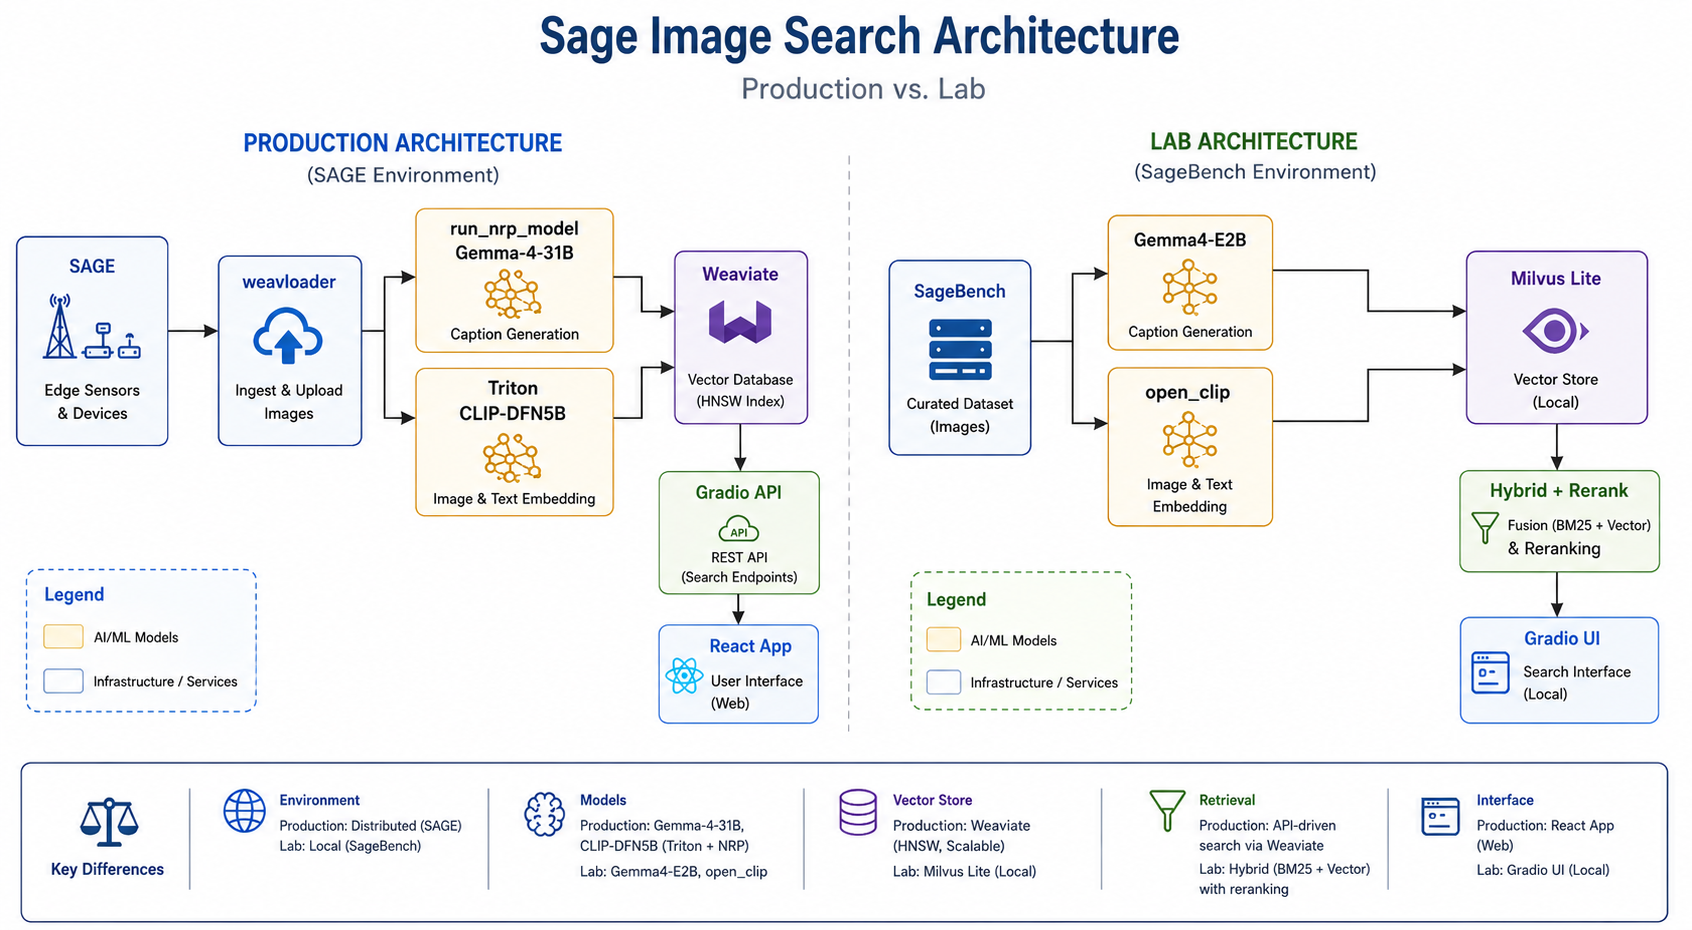
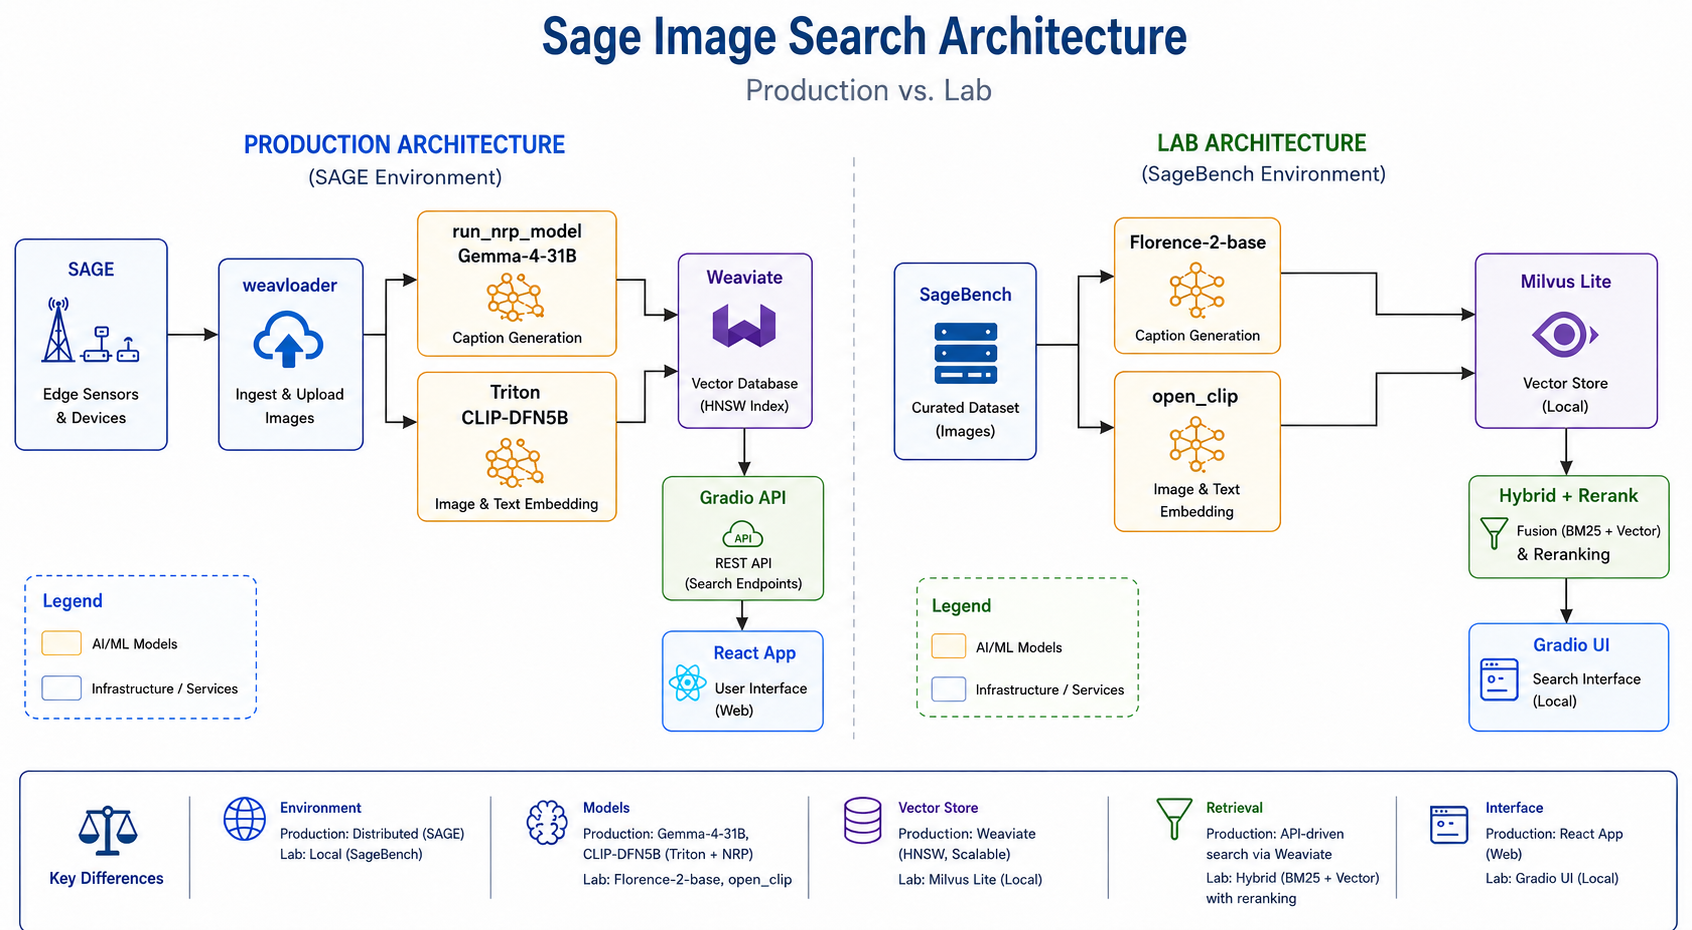
changed lab model to florence2base

diff --git a/docs/learning.md b/docs/learning.md
@@ -8,7 +8,7 @@ After completing the lab, you will be able to:
 
 - Explain the Sage Image Search pipeline: captioning, embedding, indexing, hybrid search, reranking, and search UI
 - Build fused CLIP embeddings (image + caption) and index them with Milvus Lite BM25 hybrid search
-- Run a simplified version of the stack locally using Milvus Lite, open_clip, Gemma 4 E2B, and a Gradio search UI
+- Run a simplified version of the stack locally using Milvus Lite, open_clip, [Florence-2-base](https://huggingface.co/microsoft/Florence-2-base), and a Gradio search UI
 - Map each lab component to the production system (Weaviate, Triton, NRP `run_nrp_model()`, weavloader, Gradio API, React portal)
 - Evaluate retrieval quality with MRR and Success@K on SageBench queries
 
@@ -32,9 +32,8 @@ You can complete the lab without watching either video.
 Before starting the lab:
 
 - **Python** and basic machine learning familiarity
-- **1 GPU** (recommended; CPU fallback uses SageBench `summary` captions instead of Gemma)
-- A **[Hugging Face](https://huggingface.co/)** account
-- An **`HF_TOKEN`** — create a `read` token at [User access tokens](https://huggingface.co/docs/hub/en/security-tokens) and accept the [Gemma 4 license](https://huggingface.co/google/gemma-4-E2B) on the model page
+- **1 GPU** (recommended; CPU works — Florence-2-base is 0.23B params). Set `USE_SUMMARY=True` in the notebook to skip captioning and use SageBench summaries.
+- Optional **[Hugging Face](https://huggingface.co/)** account and **`HF_TOKEN`** for faster Hub downloads ([User access tokens](https://huggingface.co/docs/hub/en/security-tokens)) — not required (Florence-2-base and SageBench are public)
 
 No SAGE credentials are required (the lab uses public SageBench data).
 
@@ -44,11 +43,11 @@ The main lab is [sage_image_search_lab.ipynb](notebooks/sage_image_search_lab.ip
 
 | Section | What you do |
 |---------|-------------|
-| **Setup** | Install requirements; sign in at [Hugging Face](https://huggingface.co/); set `HF_TOKEN` ([access tokens](https://huggingface.co/docs/hub/en/security-tokens)); configure `PERSIST_DIR` in `User_Persistent_Storage` |
+| **Setup** | Install requirements; configure `PERSIST_DIR` in `User_Persistent_Storage` |
 | **Load SageBench** | 50-image subset (`SEED=42`, `SAMPLE_SIZE=50`) from [`sagecontinuum/SageBench`](https://huggingface.co/datasets/sagecontinuum/SageBench) |
 | **Architecture overview** | Compare production vs lab components (with diagram) |
 | **Step 1: Embeddings** | open_clip helpers + `get_clip_embeddings()` fused with production `clip_alpha` |
-| **Step 2: Captions** | Gemma 4 E2B-it captioning (or `summary` fallback on CPU) → fused vectors |
+| **Step 2: Captions** | [Florence-2-base](https://huggingface.co/microsoft/Florence-2-base) captioning (`<MORE_DETAILED_CAPTION>`) or `USE_SUMMARY=True` → fused vectors |
 | **Step 3: Index** | Milvus Lite collection `sage_lab` (`sage_lab.db`) with dense vectors + BM25 on `search_text` |
 | **Step 4: Vector search** | Semantic ANN on fused CLIP vectors |
 | **Step 5: Keyword search** | BM25 on captions + metadata |
@@ -68,8 +67,7 @@ Steps 4 and 5 teach vector and keyword search separately; **Steps 6 onward** alw
 ### Instructor setup (one-time)
 
 
-1. Tell students to sign up at [Hugging Face](https://huggingface.co/), create **`HF_TOKEN`** ([User access tokens](https://huggingface.co/docs/hub/en/security-tokens); `read` role is enough), accept the [Gemma 4 license](https://huggingface.co/google/gemma-4-E2B), and set the token in the notebook or environment
-2. Point students to the [Image Search Lab NDP workspace](https://nationaldataplatform.org/workspaces/7c2a994e-86b5-4119-9dd7-974dc9feb257)
+1. Point students to the [Image Search Lab NDP workspace](https://nationaldataplatform.org/workspaces/7c2a994e-86b5-4119-9dd7-974dc9feb257) and [learning.md](learning.md)
 
 ### Student setup
 
@@ -83,15 +81,14 @@ Steps 4 and 5 teach vector and keyword search separately; **Steps 6 onward** alw
    | **GPUs** | **1** | **1** | 0 |
    | **Cores** | 4 | 4 | 2 |
    | **RAM** | 32 GB | 32 GB | 16 GB |
-   | **GPU Type** | Any (≥16 GB VRAM recommended) | Tesla T4 | — |
+   | **GPU Type** | Any | Any (≥8 GB VRAM) | — |
    | **Image** | Minimal NDP Starter JupyterLab | Minimal NDP Starter JupyterLab | Minimal NDP Starter JupyterLab |
    | **Timeout (sec)** | 1200  | 1200 | 1200 |
    | **Architecture** | amd64 | amd64 | amd64 |
 
-   **Why:** Gemma 4 E2B captioning needs ~5–8 GB model memory and a GPU. Use **sequential model loading** (caption → embed → rerank). Reserve **≥5 GB** in `User_Persistent_Storage` for HF cache, `sage_lab.db`, and `gradio_images/` thumbnails.
+   **Why:** [Florence-2-base](https://huggingface.co/microsoft/Florence-2-base) is only 0.23B params (~1 GB in float16) and runs on most classroom GPUs. Use **sequential model loading** (caption → embed → rerank). Reserve **≥3 GB** in `User_Persistent_Storage` for HF cache and `sage_lab.db`.
 
-   **Expected runtime:** ~10–15 min install + ~30–40 min notebook with GPU (includes Gemma captioning and Gradio UI).
-   >NOTE: If Tesla T4 is unavailable: RTX 3090 / RTX A5000 / Quadro RTX 6000 can be used as a fallback.
+   **Expected runtime:** ~10–15 min install + ~25–35 min notebook with GPU (includes Florence captioning and Gradio UI).
 
 3. **Launch server** — Start Server, wait for JupyterLab
 4. **Set storage** — open `User_Persistent_Storage`. Files outside persistent storage are **lost** when the server stops.
@@ -105,7 +102,7 @@ Steps 4 and 5 teach vector and keyword search separately; **Steps 6 onward** alw
 
 **Notes:**
 
-- **[Hugging Face](https://huggingface.co/) account** and **`HF_TOKEN`** required for Gemma 4 E2B-it (gated model). Create a `read` token at [User access tokens](https://huggingface.co/docs/hub/en/security-tokens).
+- Optional **`HF_TOKEN`** for faster Hub downloads — not required for this lab
 - No SAGE credentials required (public SageBench data)
 - Fallback install: `%pip install -r requirements.txt` in the notebook
 
@@ -115,8 +112,8 @@ Steps 4 and 5 teach vector and keyword search separately; **Steps 6 onward** alw
 |-------|-------------|
 | `AllocTimestamp` / `Method not implemented` during Milvus insert | Harmless Milvus Lite quirk if you still see `Indexed N fused vectors + BM25 text → …/sage_lab.db`. Re-install from `requirements.txt` to reduce log noise. |
 | Gradio gallery shows broken images with path text | Restart kernel, re-run **Load SageBench** through **Step 8**. Step 8 caches JPEG thumbnails under `gradio_images/` in persistent storage. Open the printed Gradio URL in a new tab if `inline=True` does not render images. |
-| `HF_TOKEN` / gated model download errors | Sign up at [Hugging Face](https://huggingface.co/), accept the [Gemma 4 license](https://huggingface.co/google/gemma-4-E2B), then create a `read` token at [User access tokens](https://huggingface.co/docs/hub/en/security-tokens). |
-| No GPU / Gemma OOM | CPU mode uses SageBench `summary` captions instead of Gemma; relaunch with 1 GPU for the full lab. |
+| `HF_TOKEN` / model download errors | Optional for this lab. Set `HF_TOKEN` if Hub rate-limits you ([User access tokens](https://huggingface.co/docs/hub/en/security-tokens)). |
+| Slow captioning / no GPU | Set `USE_SUMMARY=True` in Step 2 to skip Florence and use SageBench `summary` captions. |
 | Files missing after restart | Confirm you are working inside `User_Persistent_Storage`. |
 
 ## Full vs lab mapping
@@ -124,7 +121,7 @@ Steps 4 and 5 teach vector and keyword search separately; **Steps 6 onward** alw
 | Production | Lab equivalent | Why simplified |
 |------------|----------------|----------------|
 | Weaviate `HybridSearchExample` | Milvus Lite `sage_lab` (`sage_lab.db`) | Embedded DB, no Kubernetes |
-| NRP `gemma` → [gemma-4-31B-it-qat-w4a16-ct](https://huggingface.co/google/gemma-4-31B-it-qat-w4a16-ct) via `run_nrp_model()` | [gemma-4-E2B-it](https://huggingface.co/google/gemma-4-E2B) via `transformers` + optional `bitsandbytes` | Same Gemma 4 family; edge-sized model for student GPU |
+| NRP `gemma` → [gemma-4-31B-it-qat-w4a16-ct](https://huggingface.co/google/gemma-4-31B-it-qat-w4a16-ct) via `run_nrp_model()` | [Florence-2-base](https://huggingface.co/microsoft/Florence-2-base) via `transformers` | Smaller VLM (0.23B) for classroom GPUs; demonstrates the same caption → embed pipeline |
 | Triton `clip` (`DFN5B-CLIP-ViT-H-14-378`) + fused image+caption vector (`clip_alpha=0.7`) | `open_clip` ViT-B-32 + same fusion | Smaller CLIP for classroom GPUs; same `fuse_embeddings` math |
 | Weaviate hybrid (`alpha=0.4`) | Milvus `hybrid_search` + `WeightedRanker(0.4, 0.6)` | Same dense+BM25 fusion via Milvus built-in ranker |
 | `reranker-transformers` | `ms-marco-MiniLM-L-6-v2` CrossEncoder | Same reranker family |
@@ -136,9 +133,9 @@ Steps 4 and 5 teach vector and keyword search separately; **Steps 6 onward** alw
 
 | | Production | Lab |
 |---|------------|-----|
-| **Model** | [gemma-4-31B-it-qat-w4a16-ct](https://huggingface.co/google/gemma-4-31B-it-qat-w4a16-ct) | [gemma-4-E2B-it](https://huggingface.co/google/gemma-4-E2B) |
-| **API** | `run_nrp_model()` in [weavloader/inference/model.py](../weavloader/inference/model.py) | `transformers` `AutoModelForMultimodalLM` |
-| **Prompt** | [model_config.py](../weavloader/inference/model_config.py) `caption_model_prompt` | Same prompt text |
+| **Model** | [gemma-4-31B-it-qat-w4a16-ct](https://huggingface.co/google/gemma-4-31B-it-qat-w4a16-ct) | [Florence-2-base](https://huggingface.co/microsoft/Florence-2-base) |
+| **API** | `run_nrp_model()` in [weavloader/inference/model.py](../weavloader/inference/model.py) | `transformers` `AutoModelForCausalLM` + `trust_remote_code=True` |
+| **Prompt** | [model_config.py](../weavloader/inference/model_config.py) `caption_model_prompt` | Built-in task token `<MORE_DETAILED_CAPTION>` |
 
 ### Key ideas (from the lab conclusion)
 
@@ -152,7 +149,7 @@ Steps 4 and 5 teach vector and keyword search separately; **Steps 6 onward** alw
 | Level | Audience | Activities | Difficulty | Next steps |
 |-------|----------|------------|------------|------------|
 | **1 — Explorer** | New to the system | Run the notebook; try queries in the Gradio UI; compare with [production portal](https://portal.sagecontinuum.org/labs/image-search) | Easy | [overview.md](overview.md), [glossary.md](glossary.md) |
-| **2 — Tinkerer** | Comfortable with Python | Compare Gemma vs `summary` captions; tune `QUERY_ALPHA`; plot MRR@K | Medium | [configuration.md](configuration.md), [model_config.py](../weavloader/inference/model_config.py) |
+| **2 — Tinkerer** | Comfortable with Python | Compare Florence vs `summary` captions; try `<DETAILED_CAPTION>`; tune `QUERY_ALPHA`; plot MRR@K | Medium | [configuration.md](configuration.md), [model_config.py](../weavloader/inference/model_config.py) |
 | **3 — Builder** | Ready for real stack | Deploy dev UI on NRP; run Sagebench `make run-local`; try NRP API | Hard | [getting-started.md](getting-started.md), [benchmarking.md](benchmarking.md) |
 | **4 — Contributor** | Wants to ship code | Pick a [roadmap item](CONTRIBUTING.md#roadmap); open a PR | Hard | [CONTRIBUTING.md](CONTRIBUTING.md) |
 | **5 — Pioneer** | Building something new from scratch | [Image Search at the Edge](https://sagecontinuum.org/docs/events/2026-Sage-Summer-Hackathon#potential-hackathon-projects) — pluginctl, edge models, NanoDB | Very Hard | Hackathon project page |
@@ -163,7 +160,7 @@ Steps 4 and 5 teach vector and keyword search separately; **Steps 6 onward** alw
 
 | Notebook | Runtime | Description |
 |----------|---------|-------------|
-| [sage_image_search_lab.ipynb](notebooks/sage_image_search_lab.ipynb) | ~30–40 min (GPU) | Full pipeline lab: SageBench subset → caption → fused CLIP → Milvus hybrid → rerank → Gradio UI → mini eval |
+| [sage_image_search_lab.ipynb](notebooks/sage_image_search_lab.ipynb) | ~25–35 min (GPU) | Full pipeline lab: SageBench subset → Florence caption → fused CLIP → Milvus hybrid → rerank → Gradio UI → mini eval |
 
 Additional notebooks (edge deployment, full Weaviate path) may be added later.
 

diff --git a/docs/glossary.md b/docs/glossary.md
@@ -9,7 +9,7 @@ Terms used throughout Sage Image Search documentation.
 | **Autocut** | Weaviate operator that limits results at score discontinuities instead of a fixed top‑K. Disabled in production (`autocut_jumps=0`). |
 | **BM25** | Best Matching 25 — a keyword ranking algorithm used for text-based search on captions and metadata fields. |
 | **Bi-encoder** | Model architecture that embeds query and document separately (e.g. CLIP). Used for fast first-stage retrieval; contrast with cross-encoders used for reranking. |
-| **Caption** | An AI-generated text description of an image, produced by a vision-language model (VLM) such as Gemma 4. |
+| **Caption** | An AI-generated text description of an image, produced by a vision-language model (VLM) such as Gemma 4 (production) or Florence-2 (learning lab). |
 | **Celery** | Distributed task queue used by weavloader for image processing, monitoring, and cleanup. |
 | **clip_alpha** | Index-time fusion weight when combining CLIP image and caption embeddings (default 0.7). Higher values weight the image vector more; lower values weight the caption more. See `fuse_embeddings()` in `weavloader/inference/model.py`. |
 | **CLIP** | Contrastive Language-Image Pre-training. The production embedding model is `DFN5B-CLIP-ViT-H-14-378` (served via Triton). The learning lab uses a smaller `open_clip` ViT-B-32 variant with the same fusion math. |
@@ -21,7 +21,8 @@ Terms used throughout Sage Image Search documentation.
 | **Embedding fusion** | Combining separate CLIP image and caption vectors into one stored vector via `fuse_embeddings()` and `clip_alpha` before indexing. |
 | **Flower** | Web UI for monitoring Celery workers and task queues. Runs inside the weavloader pod on port 5555. |
 | **Fusion (query)** | The process of combining vector and keyword search scores at query time. Weaviate uses `RELATIVE_SCORE` fusion; Milvus uses `WeightedRanker`. |
-| **Gemma** | Google's open vision-language model family. Production captioning on NRP uses `gemma-4-31B-it-qat-w4a16-ct` via the NRP AI Gateway; the learning lab uses the smaller `gemma-4-E2B-it`. |
+| **Florence-2** | Microsoft's vision foundation model family ([Florence-2-base](https://huggingface.co/microsoft/Florence-2-base), 0.23B params). The learning lab uses it for captioning via task prompts like `<MORE_DETAILED_CAPTION>`. |
+| **Gemma** | Google's open vision-language model family. Production captioning on NRP uses `gemma-4-31B-it-qat-w4a16-ct` via the NRP AI Gateway. |
 | **Gradio** | Python library for web UIs. In production, the Gradio app in `app/` is the **search API backend** (hybrid search, image fetch, metadata). The primary user-facing UI is the React portal; Gradio can also be opened directly for local dev. |
 | **Hybrid search** | Search that combines vector (semantic) and keyword (BM25) retrieval, fused into a single ranked result set. |
 | **HybridSearchExample** | The Weaviate collection name where indexed images are stored. |
@@ -52,7 +53,7 @@ Terms used throughout Sage Image Search documentation.
 | **Triton** | NVIDIA Triton Inference Server. Serves CLIP embeddings on NRP; may also serve Gemma caption models when `LLM_RUN_MODE=TRITON`. |
 | **UNALLOWED_NODES** | Comma-separated list of VSNs excluded from indexing and filtered from query results. |
 | **Vector search** | Semantic similarity search using embedding vectors (CLIP). Finds images conceptually similar to the query. |
-| **VLM** | Vision-Language Model. Generates captions by understanding image content (e.g. Gemma 4 on NRP, or Gemma 3 via Triton in Docker Compose). |
+| **VLM** | Vision-Language Model. Generates captions by understanding image content (e.g. Gemma 4 on NRP, Florence-2 in the learning lab, or Gemma 3 via Triton in Docker Compose). |
 | **VSN** | Virtual Sensor Number. Unique identifier for a SAGE edge node (e.g. `W049`, `W040`). |
 | **Weaviate** | Open-source vector database used in production for storage, hybrid search, and reranker integration. |
 | **WeightedRanker** | Milvus component that fuses dense vector and sparse BM25 scores with configurable weights (e.g. `WeightedRanker(0.4, 0.6)` in the learning lab). |
